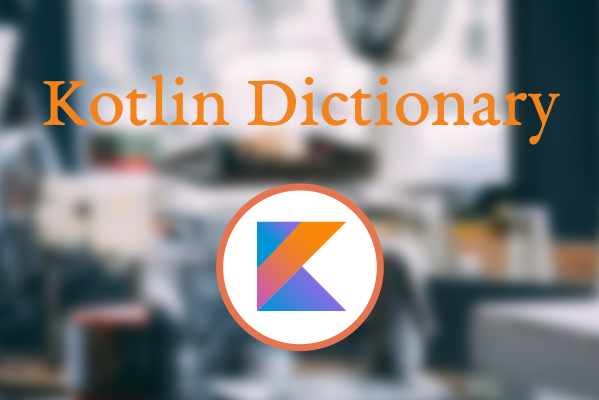
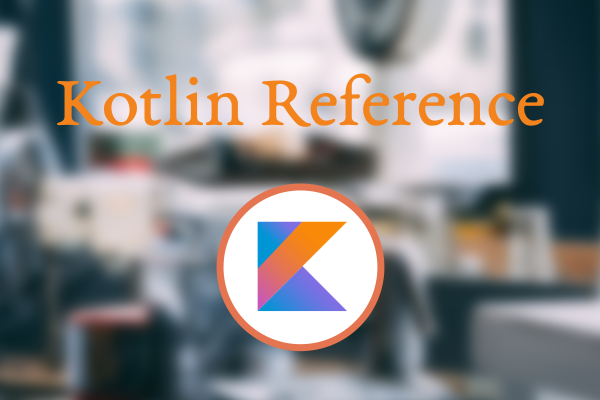
Updata reference

Changed region(s): [[0.0601, 0.18, 0.9316, 0.36], [0.4207, 0.57, 0.4508, 0.66], [0.4207, 0.75, 0.4508, 0.78]]

diff --git a/single.php b/single.php
@@ -7,21 +7,23 @@
             <?php
                 $post_type = get_post_type();
                 $post_name = ""; 
-                if ($post_type == 'python') {
+                if ($post_type == 'datascience') {
+                    $post_name = "Data Science";
+                } elseif ($post_type == 'python') {
                     $post_name = "Python";
                 } elseif ($post_type == 'swift') {
                     $post_name = "Swift";
-                } elseif ($post_type == 'kotlin') {
-                    $post_name = "Kotlin";
                 } elseif ($post_type == 'android') {
                     $post_name = "Android";
+                } elseif ($post_type == 'kotlin') {
+                    $post_name = "Kotlin";
                 }
                 ?>
                 <figure class="frame">
                     <a href="<?php echo esc_url( home_url( '/' ) ); ?>/<?php echo $post_type ?>/">
                     <?php if (has_post_thumbnail()) {
                             the_post_thumbnail(array(360, 220));
-                        } elseif (get_post_type() == 'python' || get_post_type() == 'swift' || get_post_type() == 'kotlin' || get_post_type() == 'android') { ?>
+                        } elseif (get_post_type() == 'datascience' || get_post_type() == 'python' || get_post_type() == 'swift' || get_post_type() == 'android' || get_post_type() == 'kotlin') { ?>
                             <img src="<?php echo get_bloginfo('template_directory'); ?>/images/<?php echo $post_type; ?>.png" alt="<?php echo $post_name; ?> Image" width="360" />
                         <?php } else { ?>
                             <img src="<?php echo get_bloginfo('template_directory'); ?>/images/eyecatch.png" alt="Eye Catch Image" width="360" />
@@ -55,7 +57,7 @@
                 </div>
                 <?php wp_link_pages('before=<p id="postpage">&after=</p>&pagelink=<span>%</span>'); ?>
             </div>
-            <div class="newentry"><p class="front-title">『<?php echo $post_name; ?> Dictionary』Article List</p></div>     
+            <div class="newentry"><p class="front-title">『<?php echo $post_name; ?> Reference』Article List</p></div>     
             <ul>
                 <?php $args = array(
                     'numberposts' => -1,
@@ -75,7 +77,7 @@
             <div class="afterpost">
                 <div class="cards">
                     <div class="cards-inside">
-                        <?php $array = array("swift", "python", "android", "kotlin");
+                        <?php $array = array("datascience", "python", "swift", "android", "kotlin");
                         foreach($array as $value){
                         ?>
                         <a href="<?php echo esc_url( home_url( '/' ) ); ?>/<?php echo $value; ?>" title="<?php echo $value; ?> Dictionary">  

diff --git a/front-page.php b/front-page.php
@@ -9,7 +9,7 @@
                         <div class="l-card">
                             <div class="l-thumbnail">
                                 <figure class="thumbnail-wrapper">
-                                    <img src="<?php echo get_bloginfo('template_directory'); ?>/images/datascience.png" alt="Eye Catch Image" width="360" height="220" />
+                                    <img src="<?php echo get_bloginfo('template_directory'); ?>/images/automator.png" alt="Eye Catch Image" width="360" height="220" />
                                 </figure>
                                 <span class="more-text">Read More</span>
                             </div>
@@ -18,7 +18,7 @@
                             </div>
                         </div>
                     </a>
-                    <?php $array = array("swift", "python", "android", "kotlin");
+                    <?php $array = array("datascience", "python", "swift", "android", "kotlin");
                     foreach($array as $value){
                         ?>
                         <a href="<?php echo esc_url( home_url( '/' ) ); ?>/<?php echo $value; ?>" title="<?php echo $value; ?> Dictionary">  
@@ -31,15 +31,17 @@
                                 </div>
                                 <div class="text-content">
                                     <?php 
-                                        if ($value == 'python') {
+                                        if ($value == 'datascience') {
+                                            $value = "Data Science";
+                                        } elseif ($value == 'python') {
                                             $value = "Python";
                                         } elseif ($value == 'swift') {
                                             $value = "Swift";
-                                        } elseif ($value == 'kotlin') {
-                                            $value = "Kotlin";
                                         } elseif ($value == 'android') {
                                             $value = "Android";
-                                        }
+                                        } elseif ($value == 'kotlin') {
+                                            $value = "Kotlin";
+                                        } 
                                     ?>
                                     <p class="caption">This document shows the program of <?php echo $value; ?>, images and videos of the execution results at a glance. This is suitable for beginners to use as reference.</p>
                                 </div>

diff --git a/page-android.php b/page-android.php
@@ -3,14 +3,16 @@
         <div class="post">
         <?php $post_name = ""; 
             $slug_name = basename(get_permalink());
-            if ($slug_name == 'python') {
+            if ($slug_name == 'datascience') {
+                $post_name = "Data Science";
+            } elseif ($slug_name == 'python') {
                 $post_name = "Python";
             } elseif ($slug_name == 'swift') {
                 $post_name = "Swift";
-            } elseif ($slug_name == 'kotlin') {
-                $post_name = "Kotlin";
             } elseif ($slug_name == 'android') {
                 $post_name = "Android";
+            } elseif ($slug_name == 'kotlin') {
+                $post_name = "Kotlin";
             }
         ?>
             <?php
@@ -31,14 +33,14 @@
                 <a href="<?php echo esc_url( home_url( '/' ) ); ?>/<?php echo $post_type ?>/">
                 <?php if (has_post_thumbnail()) {
                         the_post_thumbnail(array(360, 220));
-                    } elseif (get_post_type() == 'python' || get_post_type() == 'swift' || get_post_type() == 'kotlin' || get_post_type() == 'android') { ?>
+                    } elseif (get_post_type() == 'datascience' || get_post_type() == 'python' || get_post_type() == 'swift' || get_post_type() == 'android' || get_post_type() == 'kotlin') { ?>
                         <img src="<?php echo get_bloginfo('template_directory'); ?>/images/android.png" alt="Android Image" width="360" />
                     <?php } else { ?>
                         <img src="<?php echo get_bloginfo('template_directory'); ?>/images/eyecatch.png" alt="Eye Catch Image" width="360" />
                 <?php } ?>
                 </a>
             </figure>
-            <div class="newentry"><p class="front-title">『<?php echo $post_name; ?> Dictionary』Article List</p></div>
+            <div class="newentry"><p class="front-title">『<?php echo $post_name; ?> Reference』Article List</p></div>
             <ul>
             <?php while ( have_posts() ) : the_post(); ?>
             <li>
@@ -90,7 +92,7 @@
             <div class="afterpost">
                 <div class="cards">
                     <div class="cards-inside">
-                    <?php $array = array("swift", "python", "android", "kotlin");
+                    <?php $array = array("datascience", "python", "swift", "android", "kotlin");
                     foreach($array as $value){
                         ?>
                         <a href="<?php echo esc_url( home_url( '/' ) ); ?>/<?php echo $value; ?>" title="<?php echo $value; ?> Dictionary">  

diff --git a/header.php b/header.php
@@ -16,12 +16,14 @@
             $post_name = "Kotlin";
         } elseif ($post_type == 'android') {
             $post_name = "Android";
+        } elseif ($post_type == 'datascience') {
+            $post_name = "Data Science";
         }
-        if($post_type == 'python' || $post_type == 'swift' || $post_type == 'kotlin' || $post_type == 'android' ){ ?>
-        <meta name="keywords" content="<?php echo $post_name; ?>, Programming, Coding, Sample, Example, Tutorial, Download, Beginner, Entrance, Study">
+        if($post_type == 'python' || $post_type == 'swift' || $post_type == 'kotlin' || $post_type == 'android' || $post_type == 'datascience' ){ ?>
+        <meta name="keywords" content="<?php echo $post_name; ?>, Reference, Programming, Coding, Sample, Example, Tutorial, Download, Beginner, Entrance, Study">
         <?php
             } else { ?>
-         <meta name="keywords" content="Programming, Coding, Sample, Example, Tutorial, Download, Beginner, Entrance, Study">
+         <meta name="keywords" content="Reference, Programming, Coding, Sample, Example, Tutorial, Download, Beginner, Entrance, Study">
         <?php
             }
         ?>
